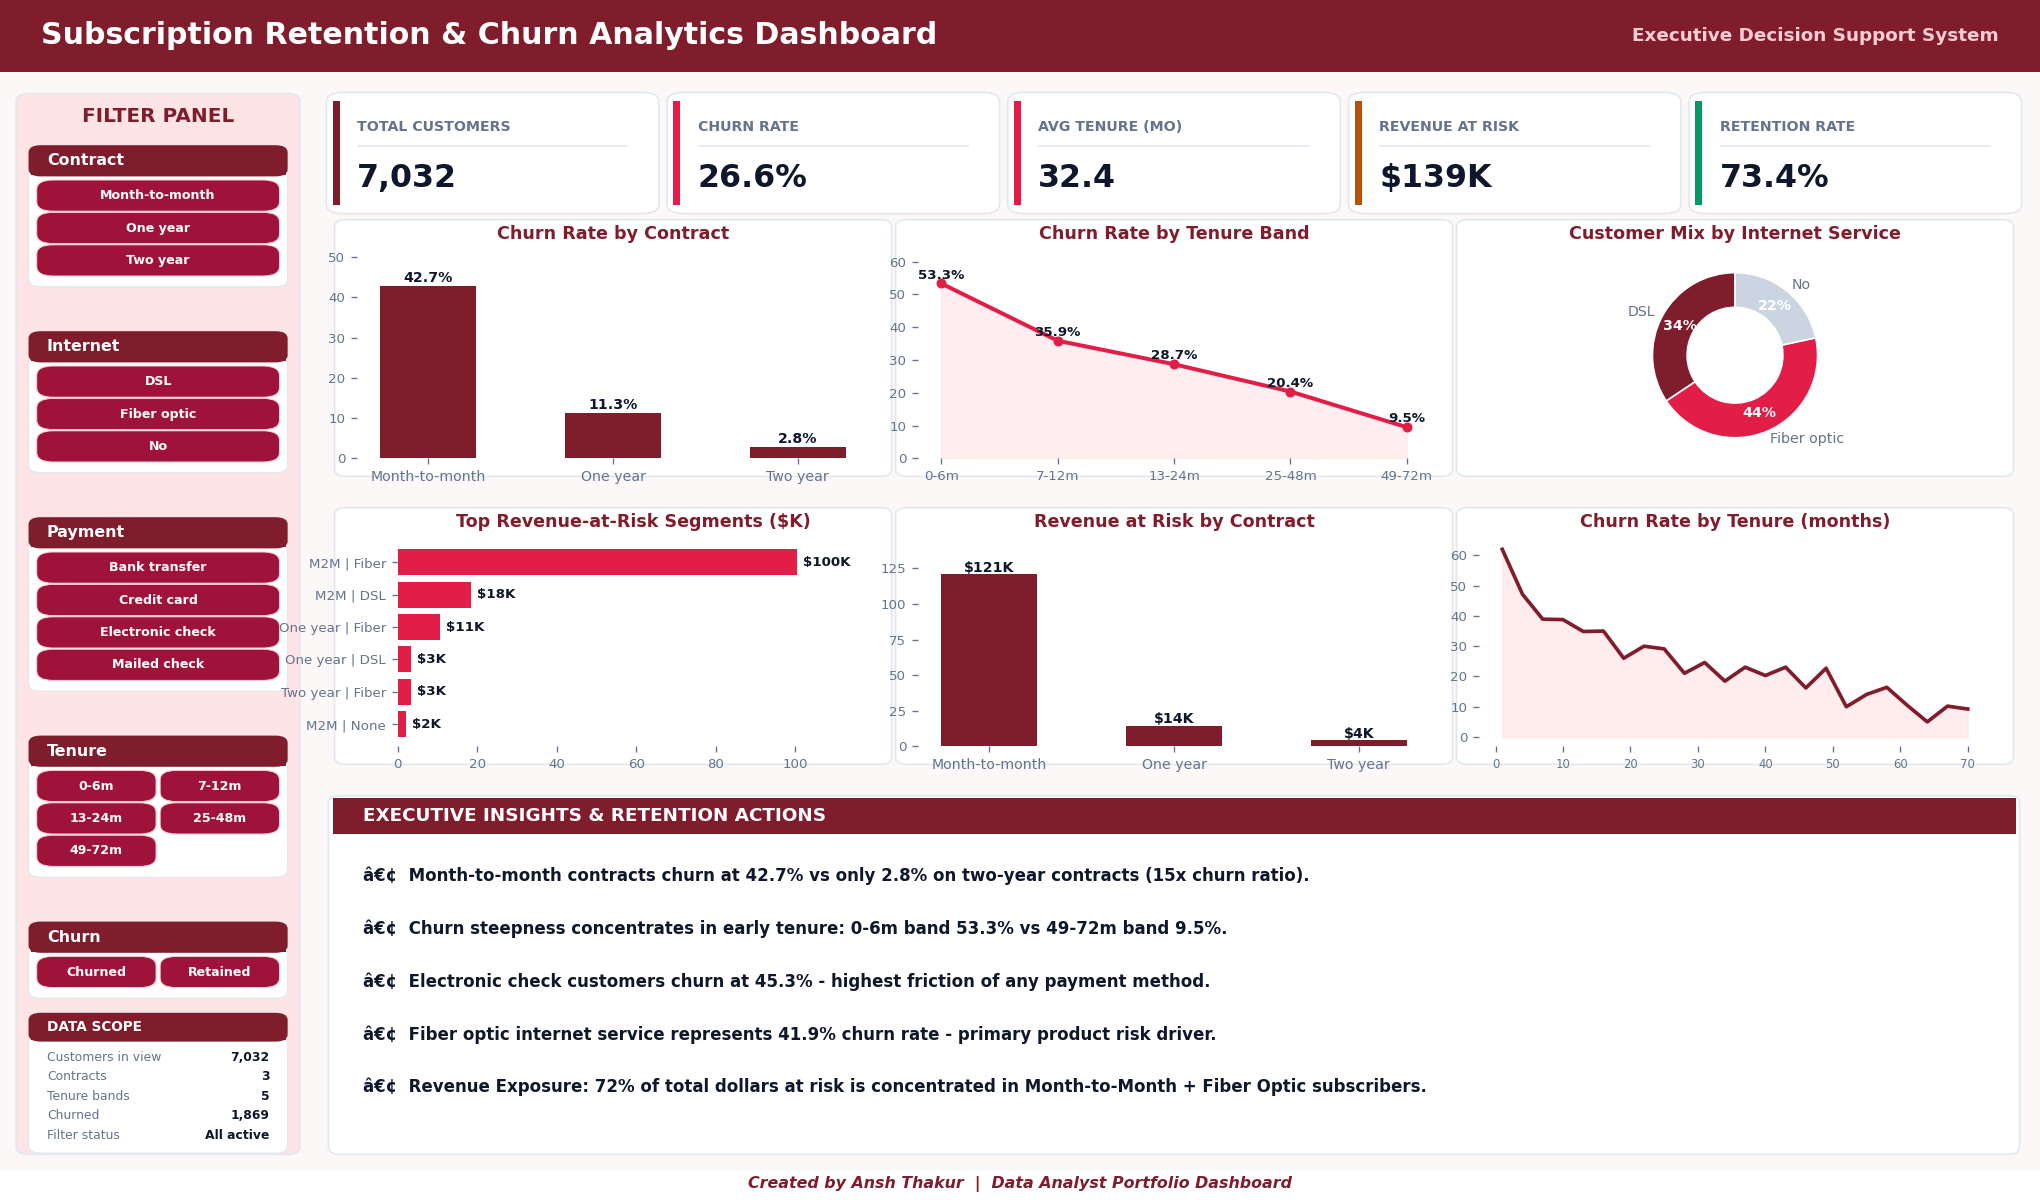
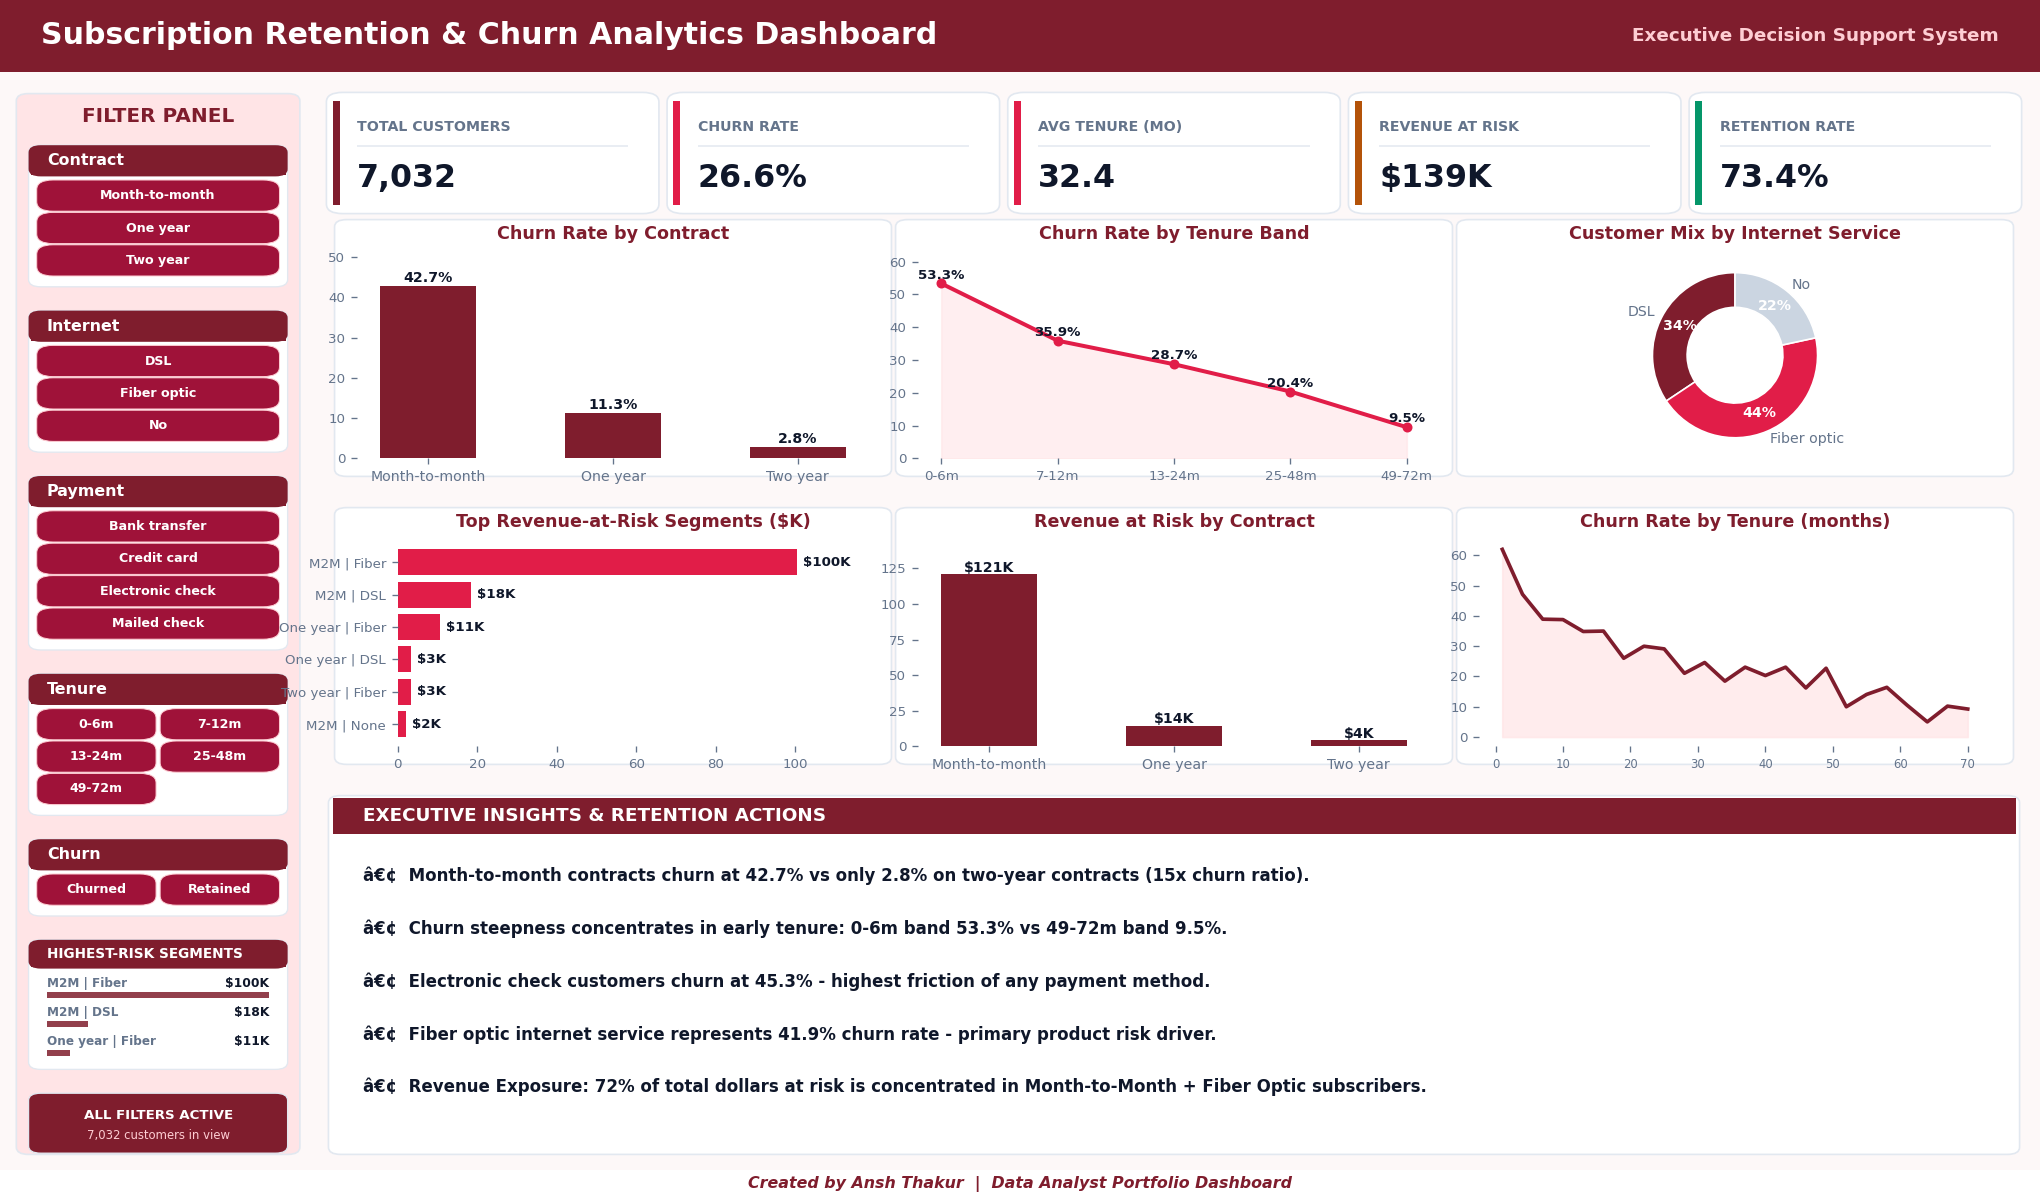
feat: fill filter sidebar with leaderboard + status strip, larger chips

Changed region(s): [[0.0, 0.2467, 0.1544, 0.9867]]

diff --git a/supply-chain-performance-analysis/src/render_modern_supplychain_screenshot.py b/supply-chain-performance-analysis/src/render_modern_supplychain_screenshot.py
@@ -31,16 +31,16 @@ CYAN_ACCENT = "#06B6D4"
 CHIP_BG = "#0B3D66"
 
 LAYOUT_TITLE_H = 0.034
-CHIP_H = 0.024
+CHIP_H = 0.028
 CHIP_PAD_X = 0.004
 CHIP_PAD_Y = 0.005
 CHIP_GAP_X = 0.004
 CHIP_GAP_Y = 0.003
 SECTION_HEADER_H = 0.024
 SECTION_TAIL = 0.004
-FOOTER_GAP = 0.014
-FOOTER_MIN_H = 0.115
-MAX_SECTION_GAP = 0.070
+RANK_HEAD_H = 0.022
+RANK_ROW_H = 0.024
+STATUS_H = 0.048
 
 
 def _kpi(ax, x, y, w, h, label, value, color=NAVY_MAIN):
@@ -69,7 +69,7 @@ def _fit_font(text, chip_w, base, fig_w_in=17.0, dpi_pts=72.0):
     return base if est_pt <= usable_pt else max(5.0, base * usable_pt / est_pt)
 
 
-def _chip(ax, x, y, w, h, text, edge="#BAE6FD", bg=None, base=7.4):
+def _chip(ax, x, y, w, h, text, edge="#BAE6FD", bg=None, base=7.8):
     ax.add_patch(FancyBboxPatch((x, y), w, h,
                                 boxstyle="round,pad=0.001,rounding_size=0.008",
                                 linewidth=0.6, edgecolor=edge, facecolor=bg or CHIP_BG,
@@ -109,51 +109,70 @@ def _filter_section(ax, x_top, y_top, w, items, label, cols, accent,
     return box_h
 
 
-def _panel_footer(ax, x, y_bottom, w, h, title, rows, accent):
-    """Bottom-anchored data-scope card. It absorbs whatever vertical slack the
-    filter stack leaves, so the sidebar always ends level with the dashboard."""
-    ax.add_patch(FancyBboxPatch((x, y_bottom), w, h,
+def _rank_card_h(n):
+    return RANK_HEAD_H + 0.006 + n * RANK_ROW_H + 0.006
+
+
+def _rank_card(ax, x, y_top, w, title, items, accent):
+    """Ranked mini leaderboard (label + value + proportional bar) that keeps
+    the sidebar full with real data instead of stretched empty space."""
+    n = len(items)
+    box_h = _rank_card_h(n)
+    ax.add_patch(FancyBboxPatch((x, y_top - box_h), w, box_h,
                                 boxstyle="round,pad=0.001,rounding_size=0.006",
                                 linewidth=0.8, edgecolor=BORDER_COLOR,
                                 facecolor=CARD_BG, transform=ax.transAxes))
-    head_h = 0.022
-    ax.add_patch(FancyBboxPatch((x, y_bottom + h - head_h), w, head_h,
+    ax.add_patch(FancyBboxPatch((x, y_top - RANK_HEAD_H), w, RANK_HEAD_H,
                                 boxstyle="round,pad=0.001,rounding_size=0.006",
                                 linewidth=0, facecolor=accent, transform=ax.transAxes))
-    ax.add_patch(Rectangle((x, y_bottom + h - head_h), w, head_h * 0.55,
+    ax.add_patch(Rectangle((x, y_top - RANK_HEAD_H), w, RANK_HEAD_H * 0.55,
                            facecolor=accent, transform=ax.transAxes))
-    ax.text(x + 0.008, y_bottom + h - head_h / 2, title, color="#FFFFFF", fontsize=8.2,
+    ax.text(x + 0.008, y_top - RANK_HEAD_H / 2, title, color="#FFFFFF", fontsize=8.2,
             weight="bold", transform=ax.transAxes, ha="left", va="center")
-    top = y_bottom + h - head_h - 0.006
-    step = (h - head_h - 0.012) / max(len(rows), 1)
-    for i, (k, v) in enumerate(rows):
-        y = top - step * (i + 0.5)
-        ax.text(x + 0.008, y, k, color=TEXT_MUTED, fontsize=7.4,
-                transform=ax.transAxes, va="center", ha="left")
-        ax.text(x + w - 0.008, y, v, color=TEXT_DARK, fontsize=7.4, weight="bold",
-                transform=ax.transAxes, va="center", ha="right")
+    for i, (label, value, frac) in enumerate(items):
+        yc = y_top - RANK_HEAD_H - 0.006 - RANK_ROW_H * (i + 0.5)
+        ax.text(x + 0.008, yc + 0.0045, label, color=TEXT_MUTED, fontsize=7.2,
+                weight="bold", transform=ax.transAxes, ha="left", va="center")
+        ax.text(x + w - 0.008, yc + 0.0045, value, color=TEXT_DARK, fontsize=7.4,
+                weight="bold", transform=ax.transAxes, ha="right", va="center")
+        ax.add_patch(Rectangle((x + 0.008, yc - 0.0075), (w - 0.016) * max(frac, 0.03),
+                               0.005, facecolor=accent, alpha=0.85, transform=ax.transAxes))
+    return box_h
+
+
+def _status_footer(ax, x, y_bottom, w, title, sub, accent):
+    """Compact bottom-anchored status strip pinned exactly at the panel edge."""
+    ax.add_patch(FancyBboxPatch((x, y_bottom), w, STATUS_H,
+                                boxstyle="round,pad=0.001,rounding_size=0.006",
+                                linewidth=0.8, edgecolor=BORDER_COLOR,
+                                facecolor=accent, transform=ax.transAxes))
+    ax.text(x + w / 2, y_bottom + STATUS_H * 0.64, title, color="#FFFFFF", fontsize=8.0,
+            weight="bold", transform=ax.transAxes, ha="center", va="center")
+    ax.text(x + w / 2, y_bottom + STATUS_H * 0.28, sub, color="#BAE6FD", fontsize=7.0,
+            transform=ax.transAxes, ha="center", va="center")
 
 
 def _layout_filter_panel(ax, x, panel_top_y, panel_bottom_y, w, sections,
-                         accent, footer_title, footer_rows,
+                         accent, rank_title, rank_items, status_title, status_sub,
                          chip_edge="#BAE6FD", chip_bg=None):
-    """Fill the sidebar exactly: sections get an even gap, and the leftover
-    space goes to the bottom-anchored scope card. Nothing floats or overflows."""
+    """Fill the sidebar exactly: filter sections + a ranked leaderboard + a
+    compact status strip, all separated by one even gap. Nothing floats."""
     content_top = panel_top_y - LAYOUT_TITLE_H - 0.008
     heights = [_section_box_h(math.ceil(len(items) / cols)) for _, items, cols in sections]
+    rank_h = _rank_card_h(len(rank_items))
     avail = content_top - panel_bottom_y
-    n_gaps = max(len(sections) - 1, 1)
-    gap = (avail - sum(heights) - FOOTER_GAP - FOOTER_MIN_H) / n_gaps
-    gap = max(0.007, min(gap, MAX_SECTION_GAP))
-    footer_h = max(FOOTER_MIN_H, avail - sum(heights) - gap * n_gaps - FOOTER_GAP)
+    n_gaps = len(sections) + 1
+    gap = max(0.008, (avail - sum(heights) - rank_h - STATUS_H) / n_gaps)
 
     y = content_top
-    for i, ((label, items, cols), box_h) in enumerate(zip(sections, heights)):
+    for (label, items, cols), box_h in zip(sections, heights):
         _filter_section(ax, x, y, w, items, label, cols, accent,
                         chip_edge=chip_edge, chip_bg=chip_bg)
-        y -= box_h + (gap if i < len(sections) - 1 else 0.0)
-    _panel_footer(ax, x, panel_bottom_y, w, footer_h, footer_title, footer_rows, accent)
-    return gap, footer_h
+        y -= box_h + gap
+    _rank_card(ax, x, y, w, rank_title, rank_items, accent)
+    y -= rank_h + gap
+    _status_footer(ax, x, panel_bottom_y, w, status_title, status_sub, accent)
+    return gap
 
 def main() -> None:
     df = pd.read_csv(DATA_PATH)
@@ -200,15 +219,12 @@ def main() -> None:
     ]
     inner_x = panel_x + 0.005
     inner_w = panel_w - 0.010
-    footer_rows = [
-        ("Orders in view", f"{len(df):,}"),
-        ("Channels", f"{df['Sales_Channel'].nunique()}"),
-        ("Warehouses", f"{df['WarehouseCode'].nunique()}"),
-        ("Years", f"{order_years[0]}\u2013{order_years[-1]}"),
-        ("Filter status", "All active"),
-    ]
+    wh_rev_top = df.groupby("WarehouseCode")["revenue"].sum().div(1e6).sort_values(ascending=False)
+    rank_items = [(c.replace("WARE-", ""), f"${v:.1f}M", v / wh_rev_top.max())
+                  for c, v in wh_rev_top.head(3).items()]
     _layout_filter_panel(ax, inner_x, panel_top_y, panel_bottom_y, inner_w, sections,
-                         NAVY_MAIN, "DATA SCOPE", footer_rows,
+                         NAVY_MAIN, "TOP WAREHOUSES", rank_items,
+                         "ALL FILTERS ACTIVE", f"{len(df):,} orders in view",
                          chip_edge="#BAE6FD", chip_bg=CHIP_BG)
 
     # 3. KPI Cards

diff --git a/subscription-retention-analytics/src/render_dashboard_screenshot.py b/subscription-retention-analytics/src/render_dashboard_screenshot.py
@@ -37,9 +37,9 @@ CHIP_GAP_X = 0.004
 CHIP_GAP_Y = 0.003
 SECTION_HEADER_H = 0.024
 SECTION_TAIL = 0.004
-FOOTER_GAP = 0.014
-FOOTER_MIN_H = 0.115
-MAX_SECTION_GAP = 0.070
+RANK_HEAD_H = 0.022
+RANK_ROW_H = 0.024
+STATUS_H = 0.048
 
 
 def _kpi(ax, x, y, w, h, label, value, color=CRIMSON_MAIN):
@@ -108,51 +108,70 @@ def _filter_section(ax, x_top, y_top, w, items, label, cols, accent,
     return box_h
 
 
-def _panel_footer(ax, x, y_bottom, w, h, title, rows, accent):
-    """Bottom-anchored data-scope card. It absorbs whatever vertical slack the
-    filter stack leaves, so the sidebar always ends level with the dashboard."""
-    ax.add_patch(FancyBboxPatch((x, y_bottom), w, h,
+def _rank_card_h(n):
+    return RANK_HEAD_H + 0.006 + n * RANK_ROW_H + 0.006
+
+
+def _rank_card(ax, x, y_top, w, title, items, accent):
+    """Ranked mini leaderboard (label + value + proportional bar) that keeps
+    the sidebar full with real data instead of stretched empty space."""
+    n = len(items)
+    box_h = _rank_card_h(n)
+    ax.add_patch(FancyBboxPatch((x, y_top - box_h), w, box_h,
                                 boxstyle="round,pad=0.001,rounding_size=0.006",
                                 linewidth=0.8, edgecolor=BORDER_COLOR,
                                 facecolor=CARD_BG, transform=ax.transAxes))
-    head_h = 0.022
-    ax.add_patch(FancyBboxPatch((x, y_bottom + h - head_h), w, head_h,
+    ax.add_patch(FancyBboxPatch((x, y_top - RANK_HEAD_H), w, RANK_HEAD_H,
                                 boxstyle="round,pad=0.001,rounding_size=0.006",
                                 linewidth=0, facecolor=accent, transform=ax.transAxes))
-    ax.add_patch(Rectangle((x, y_bottom + h - head_h), w, head_h * 0.55,
+    ax.add_patch(Rectangle((x, y_top - RANK_HEAD_H), w, RANK_HEAD_H * 0.55,
                            facecolor=accent, transform=ax.transAxes))
-    ax.text(x + 0.008, y_bottom + h - head_h / 2, title, color="#FFFFFF", fontsize=8.2,
+    ax.text(x + 0.008, y_top - RANK_HEAD_H / 2, title, color="#FFFFFF", fontsize=8.2,
             weight="bold", transform=ax.transAxes, ha="left", va="center")
-    top = y_bottom + h - head_h - 0.006
-    step = (h - head_h - 0.012) / max(len(rows), 1)
-    for i, (k, v) in enumerate(rows):
-        y = top - step * (i + 0.5)
-        ax.text(x + 0.008, y, k, color=TEXT_MUTED, fontsize=7.4,
-                transform=ax.transAxes, va="center", ha="left")
-        ax.text(x + w - 0.008, y, v, color=TEXT_DARK, fontsize=7.4, weight="bold",
-                transform=ax.transAxes, va="center", ha="right")
+    for i, (label, value, frac) in enumerate(items):
+        yc = y_top - RANK_HEAD_H - 0.006 - RANK_ROW_H * (i + 0.5)
+        ax.text(x + 0.008, yc + 0.0045, label, color=TEXT_MUTED, fontsize=7.2,
+                weight="bold", transform=ax.transAxes, ha="left", va="center")
+        ax.text(x + w - 0.008, yc + 0.0045, value, color=TEXT_DARK, fontsize=7.4,
+                weight="bold", transform=ax.transAxes, ha="right", va="center")
+        ax.add_patch(Rectangle((x + 0.008, yc - 0.0075), (w - 0.016) * max(frac, 0.03),
+                               0.005, facecolor=accent, alpha=0.85, transform=ax.transAxes))
+    return box_h
+
+
+def _status_footer(ax, x, y_bottom, w, title, sub):
+    """Compact bottom-anchored status strip pinned exactly at the panel edge."""
+    ax.add_patch(FancyBboxPatch((x, y_bottom), w, STATUS_H,
+                                boxstyle="round,pad=0.001,rounding_size=0.006",
+                                linewidth=0.8, edgecolor=BORDER_COLOR,
+                                facecolor=CRIMSON_MAIN, transform=ax.transAxes))
+    ax.text(x + w / 2, y_bottom + STATUS_H * 0.64, title, color="#FFFFFF", fontsize=8.0,
+            weight="bold", transform=ax.transAxes, ha="center", va="center")
+    ax.text(x + w / 2, y_bottom + STATUS_H * 0.28, sub, color="#FECDD3", fontsize=7.0,
+            transform=ax.transAxes, ha="center", va="center")
 
 
 def _layout_filter_panel(ax, x, panel_top_y, panel_bottom_y, w, sections,
-                         accent, footer_title, footer_rows,
+                         accent, rank_title, rank_items, status_title, status_sub,
                          chip_edge="#FECDD3", chip_bg=None):
-    """Fill the sidebar exactly: sections get an even gap, and the leftover
-    space goes to the bottom-anchored scope card. Nothing floats or overflows."""
+    """Fill the sidebar exactly: filter sections + a ranked leaderboard + a
+    compact status strip, all separated by one even gap. Nothing floats."""
     content_top = panel_top_y - LAYOUT_TITLE_H - 0.008
     heights = [_section_box_h(math.ceil(len(items) / cols)) for _, items, cols in sections]
+    rank_h = _rank_card_h(len(rank_items))
     avail = content_top - panel_bottom_y
-    n_gaps = max(len(sections) - 1, 1)
-    gap = (avail - sum(heights) - FOOTER_GAP - FOOTER_MIN_H) / n_gaps
-    gap = max(0.007, min(gap, MAX_SECTION_GAP))
-    footer_h = max(FOOTER_MIN_H, avail - sum(heights) - gap * n_gaps - FOOTER_GAP)
+    n_gaps = len(sections) + 1
+    gap = max(0.008, (avail - sum(heights) - rank_h - STATUS_H) / n_gaps)
 
     y = content_top
-    for i, ((label, items, cols), box_h) in enumerate(zip(sections, heights)):
+    for (label, items, cols), box_h in zip(sections, heights):
         _filter_section(ax, x, y, w, items, label, cols, accent,
                         chip_edge=chip_edge, chip_bg=chip_bg)
-        y -= box_h + (gap if i < len(sections) - 1 else 0.0)
-    _panel_footer(ax, x, panel_bottom_y, w, footer_h, footer_title, footer_rows, accent)
-    return gap, footer_h
+        y -= box_h + gap
+    _rank_card(ax, x, y, w, rank_title, rank_items, accent)
+    y -= rank_h + gap
+    _status_footer(ax, x, panel_bottom_y, w, status_title, status_sub)
+    return gap
 
 
 def main() -> None:
@@ -202,15 +221,16 @@ def main() -> None:
     ]
     inner_x = panel_x + 0.005
     inner_w = panel_w - 0.010
-    footer_rows = [
-        ("Customers in view", f"{len(df):,}"),
-        ("Contracts", f"{df['Contract'].nunique()}"),
-        ("Tenure bands", "5"),
-        ("Churned", f"{df['ChurnFlag'].sum():,}"),
-        ("Filter status", "All active"),
-    ]
+    seg_top = (df.assign(rar=df["MonthlyCharges"] * df["ChurnFlag"])
+                 .groupby(["Contract", "InternetService"], observed=True)["rar"]
+                 .sum().div(1000).sort_values(ascending=False))
+    rank_items = [(f"{c.replace('Month-to-month', 'M2M')} | "
+                   f"{s.replace('Fiber optic', 'Fiber').replace('No', 'None')}",
+                   f"${v:.0f}K", v / seg_top.max())
+                  for (c, s), v in seg_top.head(3).items()]
     _layout_filter_panel(ax, inner_x, panel_top_y, panel_bottom_y, inner_w, sections,
-                         CRIMSON_MAIN, "DATA SCOPE", footer_rows,
+                         CRIMSON_MAIN, "HIGHEST-RISK SEGMENTS", rank_items,
+                         "ALL FILTERS ACTIVE", f"{len(df):,} customers in view",
                          chip_edge="#FECDD3", chip_bg=CHIP_BG)
 
     # 3. KPI Cards (Consistent crimson accent strips)
